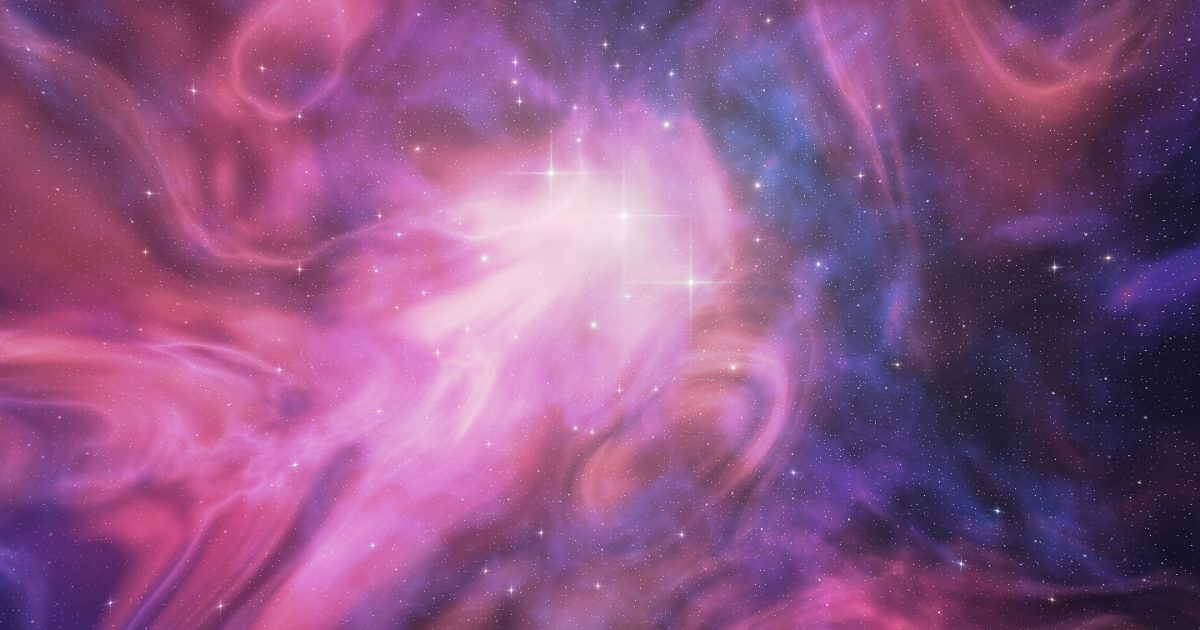
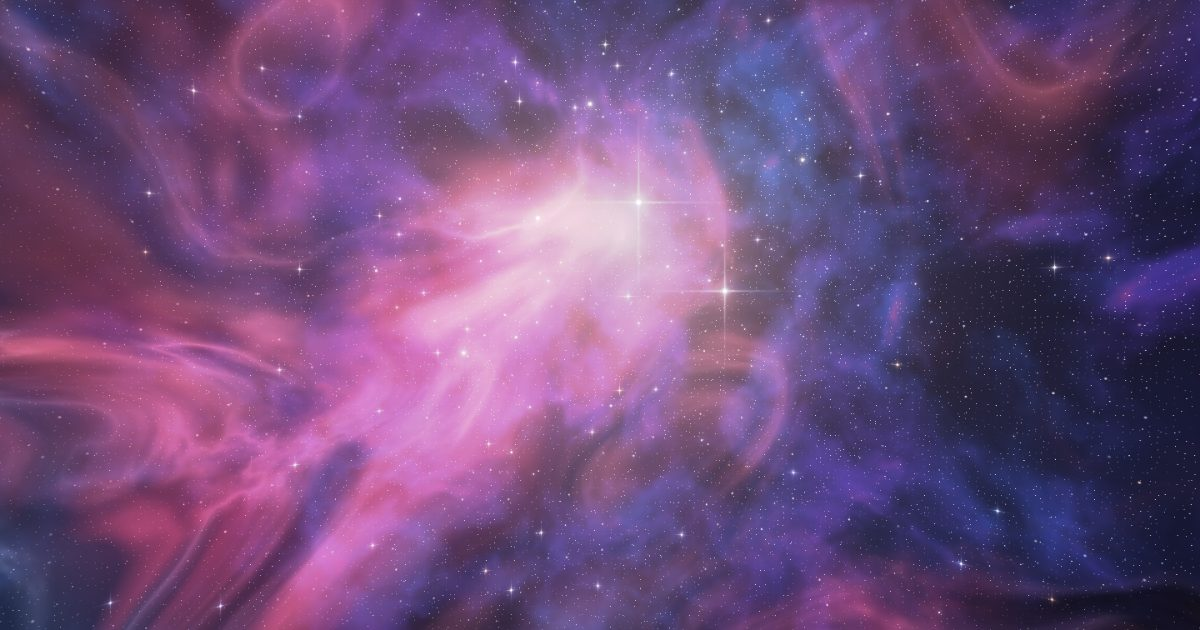
✨ feat: Add the owner's sound effects, polish the nebula and drop the Closer button
- Play the warp jump on Begin, the warp-out on every flight to or from a place, and a beep on clicks
- Give the nebula parallax layers, a natural young cluster and deeper colour and contrast
- Remove Closer so places are entered by clicking them and Further leads back out (D-114)

diff --git a/src/scene/scenes/nebula/shader.glsl.ts b/src/scene/scenes/nebula/shader.glsl.ts
@@ -20,22 +20,18 @@ void main(){ gl_Position = vec4(position.xy, 0.0, 1.0); }
 
 export const MAX_OCTAVES = 6;
 
-/** The cluster's stars, in units from the cluster's centre: x, y, size in CSS pixels, warmth. */
+/**
+ * The cluster's brightest stars, in units from the cluster's centre: x, y, size in CSS pixels,
+ * warmth. Few and irregular (S4, D-114); the many fainter ones are scattered by the shader,
+ * crowded at the heart and thinning outward, as a young cluster is.
+ */
 export const CLUSTER: readonly (readonly [number, number, number, number])[] = [
-  [0.0, 0.2, 2.6, 0.0],
-  [0.55, -0.35, 2.1, 0.1],
-  [-0.6, 0.55, 2.0, 0.0],
-  [0.35, 0.95, 1.7, 0.3],
-  [-0.25, -0.7, 1.6, 0.1],
-  [1.1, 0.45, 1.5, 0.6],
-  [-1.15, -0.15, 1.5, 0.2],
-  [0.9, -1.05, 1.3, 0.8],
-  [-0.9, 1.3, 1.2, 0.4],
-  [1.6, -0.2, 1.1, 0.0],
-  [-1.7, 0.75, 1.1, 0.7],
-  [0.15, 1.75, 1.0, 0.2],
-  [-0.4, -1.55, 1.0, 0.5],
-  [2.1, 1.1, 0.9, 0.9],
+  [0.12, 0.31, 2.7, 0.0],
+  [0.83, -0.42, 2.2, 0.15],
+  [-0.71, 0.18, 1.9, 0.05],
+  [-0.28, 1.12, 1.6, 0.4],
+  [1.47, 0.66, 1.4, 0.7],
+  [-1.32, -0.93, 1.3, 0.2],
 ];
 
 const vec4s = CLUSTER.map(([x, y, s, w]) => `vec4(${x.toFixed(2)}, ${y.toFixed(2)}, ${s.toFixed(2)}, ${w.toFixed(2)})`).join(",\n  ");
@@ -49,8 +45,9 @@ uniform vec2 uCentre;      // the cluster on screen, CSS pixels from the top lef
 uniform float uScale;      // CSS pixels per unit
 uniform float uTime;
 uniform int uOctaves;
-uniform float uNorm;
-uniform vec2 uSkyShift;   // the sky's share of a drag, CSS pixels: it moves less than the cloud       // 1 / the sum of the octaves' weights, so every tier is as bright
+uniform float uNorm;       // 1 / the sum of the octaves' weights, so every tier is as bright
+uniform vec2 uSkyShift;   // the sky's share of a drag, CSS pixels: it moves less than the cloud
+uniform vec2 uPan;        // the drag's pan, CSS pixels (S4: the far gas moves less, the near dust more)
 
 const float TAU = 6.28318530718;
 const float CAVITY = 4.6;            // the cavity's mean radius, units
@@ -135,7 +132,8 @@ void main(){
   float detail = fbm(r * 2.6 + 5.0);
   // the cloud's form: it fills the frame, thinning far from its glowing heart
   float body = smoothstep(30.0, 5.0, rad + (dens - 0.5) * 16.0);
-  float gas = smoothstep(0.36, 0.86, dens * 0.78 + detail * 0.36) * body;
+  // S4: a higher threshold, so the gas has dark gaps between its billows (contrast)
+  float gas = smoothstep(0.42, 0.9, dens * 0.78 + detail * 0.36) * body;
 
   // ---- light from the heart: the cloud's edges that face it glow (density falls toward it) ----
   vec2 toHeart = -p / max(rad, 0.001);
@@ -145,11 +143,13 @@ void main(){
 
   // ---- colour: deep blue and violet far off, magenta between, orange and gold near the heart ----
   float hue = broad(p * 0.045 + w1 * 0.9 + 30.0);
-  vec3 cool = mix(vec3(0.1, 0.2, 0.85), vec3(0.5, 0.18, 0.92), smoothstep(0.3, 0.7, hue));
-  vec3 warm = mix(vec3(0.98, 0.22, 0.55), vec3(1.0, 0.52, 0.16), smoothstep(0.35, 0.75, hue));
+  // S4: the far side teal and deep blue (the place's rose, teal and gold), violet between
+  vec3 cool = mix(vec3(0.04, 0.55, 0.72), vec3(0.12, 0.22, 0.85), smoothstep(0.42, 0.66, hue));
+  cool = mix(cool, vec3(0.48, 0.16, 0.9), smoothstep(0.66, 0.88, hue));
+  vec3 warm = mix(vec3(0.98, 0.2, 0.52), vec3(1.0, 0.55, 0.16), smoothstep(0.35, 0.75, hue));
   float heat = clamp(near * 1.9 + rim * 0.6 + (hue - 0.5) * 0.9, 0.0, 1.0);
   vec3 tint = mix(cool, warm, smoothstep(0.12, 0.7, heat));
-  vec3 light = tint * gas * (0.32 + 1.1 * near) * (0.55 + 0.9 * detail);
+  vec3 light = tint * gas * (0.2 + 1.2 * near) * (0.45 + 1.0 * detail);
   light += mix(warm, vec3(1.0, 0.86, 0.62), 0.45) * rim * (0.35 + 1.8 * near);
   // fine bright filaments threading the gas
   float thread = pow(1.0 - abs(2.0 * fbm(r * 3.4 + w2 * 2.0 + 17.0) - 1.0), 9.0) * gas;
@@ -158,11 +158,20 @@ void main(){
   light += vec3(1.0, 0.84, 0.64) * exp(-rad * 0.5) * 0.65;
   light += mix(vec3(0.45, 0.6, 1.0), vec3(1.0, 0.6, 0.85), 0.5) * exp(-rad * 0.2) * 0.2;
 
-  vec3 col = sky(css) * (1.0 - gas * 0.75) + light;
+  // ---- S4: a far layer of cool gas behind the cloud; it moves about half as much in a drag ----
+  vec2 pf = (q + uPan * 0.55) / (uScale * 1.25);
+  float farDens = broad(pf * 0.09 + vec2(t * 0.6, 40.0)) * 0.6 + broad(pf * 0.24 + 61.0) * 0.4;
+  float farGas = smoothstep(0.45, 0.85, farDens) * (1.0 - gas);
+  vec3 far = mix(vec3(0.06, 0.38, 0.62), vec3(0.32, 0.12, 0.7), broad(pf * 0.05 + 80.0)) * farGas * 0.42;
 
-  // ---- dust: soft dark drifts in front, never near the heart, never thin lines ----
-  float dust = smoothstep(0.56, 0.82, broad(p * 0.12 + w2 * 2.6 + 50.0)) * smoothstep(3.0, 10.0, rad);
-  col *= 1.0 - dust * 0.72;
+  vec3 col = sky(css) * (1.0 - gas * 0.8) * (1.0 - farGas * 0.4) + far + light;
+
+  // ---- dust: soft dark drifts in front, never near the heart, never thin lines; the nearest
+  // ones move more than the cloud in a drag (S4) ----
+  vec2 pn = (q - uPan * 0.35) / uScale;
+  float dust = smoothstep(0.52, 0.8, broad(p * 0.12 + w2 * 2.6 + 50.0)) * smoothstep(3.0, 10.0, rad);
+  float nearDust = smoothstep(0.6, 0.85, broad(pn * 0.08 + 90.0)) * smoothstep(5.0, 14.0, rad);
+  col *= (1.0 - dust * 0.8) * (1.0 - nearDust * 0.65);
 
   // ---- the stars the cloud is making: the bright cluster at the heart, and others scattered in it ----
   for (int i = 0; i < STARS; i++) {
@@ -174,6 +183,18 @@ void main(){
     float halo = size * size * 2.0 / (d * d + size * size * 2.5);
     float spikes = s.z > 1.9 ? (exp(-abs(o.y) * 1.2) * exp(-abs(o.x) / (size * 11.0)) + exp(-abs(o.x) * 1.2) * exp(-abs(o.y) / (size * 11.0))) * 0.55 : 0.0;
     col += mix(HOT, GOLD, s.w) * (core * 1.8 + halo * 0.6 + spikes);
+  }
+  // S4: the cluster's many fainter stars, crowded at the heart and thinning outward
+  vec2 cc = p * 2.2;
+  vec2 cid = floor(cc);
+  float crowd = 0.85 * exp(-dot(cid / 2.2, cid / 2.2) / 7.0) + 0.02;
+  float ch = hash21(cid + 131.0);
+  if (ch < crowd) {
+    vec2 at = (vec2(hash21(cid + 7.0), hash21(cid + 13.0)) - 0.5) * 0.7;
+    float d = length(fract(cc) - 0.5 - at) * uScale / 2.2;
+    float sz = mix(0.6, 1.5, pow(hash21(cid + 19.0), 3.0));
+    vec3 tone = mix(HOT, mix(WHITE, GOLD, 0.5), step(0.75, hash21(cid + 23.0)));
+    col += tone * (smoothstep(sz * 1.4, 0.0, d) * 1.4 + sz * sz / (d * d + sz * sz * 3.0) * 0.35);
   }
   vec2 cell = floor(p * 0.55);
   vec2 f = fract(p * 0.55) - 0.5;

diff --git a/src/lib/sound.ts b/src/lib/sound.ts
@@ -1,6 +1,8 @@
 /**
- * Sound (D-100): the owner's own music, "Magical Space", looped quietly under the scenes, and a
- * soft whoosh made in the browser for every flight (a dive, a pull-out, a glide between stops).
+ * Sound (D-100, D-114): the owner's own music, "Magical Space", looped quietly under the scenes;
+ * three effects the owner chose: a warp jump for Begin (`journey`), a warp-out for every flight
+ * into or out of a place (`travel`), a short beep for every click on a button or link (`click`);
+ * and a soft whoosh made in the browser for a glide between the galaxy and the web.
  *
  * Browsers only let a page make sound after the visitor does something, so the music starts on
  * the first click, tap or key press, and fades in. On the start page it waits for Begin instead
@@ -32,6 +34,15 @@ let master: GainNode | null = null;
 let music: HTMLAudioElement | null = null;
 let musicGain: GainNode | null = null;
 let noise: AudioBuffer | null = null;
+
+/** The owner's effects (D-114), decoded once the audio graph exists. */
+export type Sample = "journey" | "travel" | "click";
+const SAMPLES: Record<Sample, { url: string; gain: number; duck: number }> = {
+  journey: { url: "/sounds/tng_warp6_clean.mp3", gain: 0.6, duck: 0.45 },
+  travel: { url: "/sounds/tng_warp_out1.mp3", gain: 0.55, duck: 0.55 },
+  click: { url: "/sounds/padd_3.mp3", gain: 0.35, duck: 1 },
+};
+const decoded: Partial<Record<Sample, Promise<AudioBuffer | null>>> = {};
 
 function set(patch: Partial<SoundState>): void {
   state = { ...state, ...patch };
@@ -66,6 +77,14 @@ function graph(): AudioContext | null {
   musicGain = ctx.createGain();
   musicGain.gain.value = 0;
   ctx.createMediaElementSource(music).connect(musicGain).connect(master);
+
+  // the effects: fetched and decoded now, so they are ready by the time they are asked for
+  for (const name of Object.keys(SAMPLES) as Sample[]) {
+    decoded[name] = fetch(SAMPLES[name].url)
+      .then((response) => response.arrayBuffer())
+      .then((bytes) => ctx!.decodeAudioData(bytes))
+      .catch(() => null);
+  }
 
   // one second of white noise, the raw material of every whoosh
   noise = ctx.createBuffer(1, ctx.sampleRate, ctx.sampleRate);
@@ -147,6 +166,39 @@ export function toggleSound(): void {
 }
 
 /**
+ * One of the owner's effects (D-114). Called from a gesture, it may build the audio graph itself,
+ * so a click can sound before the music has started (the music still waits for Begin). If the
+ * effect is still loading it plays when ready, unless that is more than a moment late. The music
+ * dips under the longer ones.
+ */
+export function playSample(name: Sample): void {
+  if (!state.enabled || document.hidden) return;
+  const audio = graph();
+  if (!audio || !master) return;
+  if (audio.state === "suspended") void audio.resume();
+  const asked = performance.now();
+  void decoded[name]?.then((buffer) => {
+    if (!buffer || !ctx || !master || !state.enabled || performance.now() - asked > 1200) return;
+    const { gain, duck } = SAMPLES[name];
+    const source = ctx.createBufferSource();
+    source.buffer = buffer;
+    const level = ctx.createGain();
+    level.gain.value = gain;
+    source.connect(level).connect(master);
+    source.start();
+    if (duck < 1 && musicGain && state.playing) {
+      const now = ctx.currentTime;
+      const g = musicGain.gain;
+      g.cancelScheduledValues(now);
+      g.setValueAtTime(g.value, now);
+      g.linearRampToValueAtTime(MUSIC_VOLUME * duck, now + 0.4);
+      g.setValueAtTime(MUSIC_VOLUME * duck, now + buffer.duration * 0.7);
+      g.linearRampToValueAtTime(MUSIC_VOLUME, now + buffer.duration + 1.2);
+    }
+  });
+}
+
+/**
  * A breath of air for a flight (D-103): soft noise, filtered high and wide, swelling slowly and
  * fading slowly, its colour drifting up for a dive (`in`), down for a pull-out (`out`), barely at
  * all between stops (`glide`); over it a faint shimmer of two high, detuned tones. No low end and
@@ -219,6 +271,16 @@ if (typeof window !== "undefined") {
   };
   // pointerdown is permission only for a mouse; a touch gives it on pointerup and click
   for (const type of ["pointerdown", "pointerup", "click", "touchend", "keydown"]) window.addEventListener(type, onGesture, { capture: true, passive: true });
+  // every click on a button or a link beeps (D-114); a dimmed one does not
+  window.addEventListener(
+    "click",
+    (event) => {
+      const target = (event.target as Element | null)?.closest?.("button, a[href], [role='link'], [role='button']");
+      if (!target || target.getAttribute("aria-disabled") === "true") return;
+      playSample("click");
+    },
+    { capture: true, passive: true },
+  );
   document.addEventListener("visibilitychange", () => {
     if (document.hidden) {
       music?.pause();

diff --git a/src/scene/host/flow.ts b/src/scene/host/flow.ts
@@ -14,7 +14,7 @@
 
 import { useSyncExternalStore } from "react";
 import { animateSceneInput, getSceneState, setOpening, setSceneInput, subscribeScene, type SceneInput } from "./store";
-import { whoosh } from "@/lib/sound";
+import { playSample } from "@/lib/sound";
 import { sceneParams } from "./params";
 
 /**
@@ -98,7 +98,7 @@ export function flowBusy(): boolean {
  * Leaves for another scene's page. `opening` is the view the next scene starts on once motion
  * is allowed; `arrive` is the glide that then brings it to rest.
  */
-function leave(push: (href: string) => void, href: string, veil: string, out: { glide: Partial<Record<"dive" | "arrive", number>>; ms: number; veilAt: number; undo: Partial<Record<"dive" | "arrive", number>>; sound: "in" | "out" }, opening: Partial<SceneInput>, rest: Partial<SceneInput>, arrive: Partial<Record<"dive" | "arrive" | "zoom", number>>): void {
+function leave(push: (href: string) => void, href: string, veil: string, out: { glide: Partial<Record<"dive" | "arrive", number>>; ms: number; veilAt: number; undo: Partial<Record<"dive" | "arrive", number>> }, opening: Partial<SceneInput>, rest: Partial<SceneInput>, arrive: Partial<Record<"dive" | "arrive" | "zoom", number>>): void {
   if (flowBusy()) return;
   reset();
   leftToken = getSceneState().slot?.token ?? null;
@@ -112,7 +112,7 @@ function leave(push: (href: string) => void, href: string, veil: string, out: { 
     onArrive = then;
     push(href);
   };
-  whoosh(out.sound, calm() ? 0.9 : (out.ms + ARRIVE_MS * 0.5) / 1000);
+  playSample("travel"); // the owner's warp-out, into a place or back out of one (D-114)
   if (calm()) {
     set({ phase: "leaving", veil });
     later(CALM_MS, () => go({ ...opening, ...rest }, lift));
@@ -133,12 +133,12 @@ function leave(push: (href: string) => void, href: string, veil: string, out: { 
 export function diveInto(push: (href: string) => void, href: string, anchor: string, veil: string): void {
   if (flowBusy()) return;
   setSceneInput({ focus: anchor });
-  leave(push, href, veil, { glide: { dive: 1 }, ms: DIVE_MS, veilAt: VEIL_AT, undo: { dive: 0 }, sound: "in" }, { arrive: 0 }, { arrive: 1 }, { arrive: 1 });
+  leave(push, href, veil, { glide: { dive: 1 }, ms: DIVE_MS, veilAt: VEIL_AT, undo: { dive: 0 } }, { arrive: 0 }, { arrive: 1 }, { arrive: 1 });
 }
 
 /** From a place back out to the atlas, at the stop the place was found at. */
 export function pullOut(push: (href: string) => void, href: string, anchor: string, zoom: number, veil: string): void {
-  leave(push, href, veil, { glide: { arrive: 0 }, ms: SHRINK_MS, veilAt: SHRINK_VEIL_AT, undo: { arrive: 1 }, sound: "out" }, { zoom, focus: anchor, dive: 1 }, { dive: 0 }, { dive: 0 });
+  leave(push, href, veil, { glide: { arrive: 0 }, ms: SHRINK_MS, veilAt: SHRINK_VEIL_AT, undo: { arrive: 1 } }, { zoom, focus: anchor, dive: 1 }, { dive: 0 }, { dive: 0 });
 }
 
 /** The veil lifts; the flow is idle once it has faded. The next scene's opening has been used. */

diff --git a/src/components/screen/AtlasView.tsx b/src/components/screen/AtlasView.tsx
@@ -3,7 +3,7 @@
 import { useRouter } from "next/navigation";
 import { useEffect, useRef, useState } from "react";
 import { calm, diveInto, flowBusy, getFlow, useFlow } from "@/scene/host/flow";
-import { playMusic, whoosh } from "@/lib/sound";
+import { playMusic, playSample, whoosh } from "@/lib/sound";
 import { sceneParams } from "@/scene/host/params";
 import { SceneSlot } from "@/scene/host/SceneSlot";
 import {
@@ -96,19 +96,9 @@ export function AtlasView({ stops, spots }: { stops: readonly StopWords[]; spots
     sync();
   };
   /**
-   * The two buttons move between scenes only (D-112); the wheel and a pinch zoom freely. From the
-   * galaxy, Closer dives into the black hole at its heart and Further glides out to the web; from
-   * the web, Closer glides back in to the galaxy.
+   * One button (D-114): Further, the way back out, from the galaxy to the web. Places are entered
+   * by clicking them (and the galaxy, from the web, by clicking it); the wheel and a pinch zoom.
    */
-  const closer = () => {
-    if (flowBusy()) return;
-    if (getSceneInput().zoom > WEB_AT) {
-      glideTo(ZOOM_MIN);
-      return;
-    }
-    const heart = spots.find((entry) => entry.anchor === "core");
-    if (heart?.href) diveInto((href) => routerRef.current.push(href), heart.href, heart.anchor, heart.veil);
-  };
   const further = () => {
     if (getSceneInput().zoom <= WEB_AT) glideTo(ZOOM_MAX);
   };
@@ -148,7 +138,7 @@ export function AtlasView({ stops, spots }: { stops: readonly StopWords[]; spots
       leaving.current = setTimeout(() => setStartPhase("atlas"), live ? 260 : 0);
       return;
     }
-    whoosh("in", BEGIN_MS / 1000);
+    playSample("journey");
     animateSceneInput({ intro: 0 }, BEGIN_MS);
     leaving.current = setTimeout(() => setStartPhase("atlas"), BEGIN_MS * 0.8);
   };
@@ -168,7 +158,7 @@ export function AtlasView({ stops, spots }: { stops: readonly StopWords[]; spots
         setSceneInput({ intro: 1, zoom: ZOOM_MIN, yaw: 0, pitch: 0 });
         return;
       }
-      whoosh("out", BACK_MS / 1000);
+      playSample("travel");
       animateSceneInput({ intro: 1, zoom: ZOOM_MIN, yaw: 0, pitch: 0 }, BACK_MS);
     };
     const hash = () => {
@@ -322,10 +312,6 @@ export function AtlasView({ stops, spots }: { stops: readonly StopWords[]; spots
       <DragHint live={live} />
       {live ? (
         <div className={styles.controls}>
-          <button type="button" className={styles.control} onClick={closer}>
-            <i className={`${styles.icon} ${styles.closer}`} aria-hidden="true" />
-            <span>Closer</span>
-          </button>
           <button type="button" className={styles.control} onClick={() => !atWeb && further()} aria-disabled={atWeb}>
             <i className={`${styles.icon} ${styles.further}`} aria-hidden="true" />
             <span>Further</span>

diff --git a/src/scene/scenes/nebula/world.ts b/src/scene/scenes/nebula/world.ts
@@ -59,6 +59,7 @@ export class NebulaWorld {
         uTime: { value: 0 },
         uOctaves: { value: OCTAVES.medium },
         uSkyShift: { value: new Vector2(0, 0) },
+        uPan: { value: new Vector2(0, 0) },
         uSky: { value: sky },
         uNorm: { value: 1 },
       },
@@ -98,6 +99,7 @@ export class NebulaWorld {
     const panY = view.pitch * -PAN;
     u.uCentre.value.set(this.x + panX, this.y + panY);
     u.uSkyShift.value.set(panX * 0.3, panY * 0.3);
+    (u.uPan.value as Vector2).set(panX, -panY); // y up, as the shader's q
   }
 
   setTime(seconds: number): void {

diff --git a/src/components/screen/screen.module.css b/src/components/screen/screen.module.css
@@ -115,10 +115,6 @@
   transform: translate(-50%, -50%);
 }
 
-.closer::after {
-  transform: translate(-50%, -50%) rotate(90deg);
-}
-
 .further::after {
   display: none;
 }

diff --git a/docs/DECISIONS.md b/docs/DECISIONS.md
@@ -203,3 +203,4 @@ The owner clicked through S1: "Much better", then asked for the changes below, w
 | D-111 | **S2: the galaxy and the web, fuller (laptop first).** The disc's colour runs white-gold, gold and amber far out, then rose, violet, azure and teal (the warm part wider and amber, not ember, so the middle reads gold instead of salmon). New layers, each on its own random stream so the approved instance does not move: thin flocculent filaments at the arms' pitch across the whole disc (`high` 60k points); young clumps on all four arms, pink and blue-white, each with a soft glow; violet, azure and rose clouds along the arms' leading edges; fine dark lanes on every arm and dark streaks between them; a wide warm heart. The interarm stars lean violet outside the heart. Close in, the disc's light is turned down (to 70% at stop 0) so the arms do not burn white. **The web:** a bright strand of gas down every thread, a hot light at every knot, stronger glow, a richer sky behind. **The dive:** near stars are capped in size and sharpened (brighter for it), so the flight is a dense field of stars rushing in, not soft blots; glow sprites the camera is inside fade. A `?dive=&focus=` still switch for screenshots of the flight. Posters re-rendered. Budgets held: 29 draw calls at most (start page still), the atlas chunk 14.7 KB gzip. | The roadmap's S2 and the owner's "fill it", "it feels empty", with the references (`reference images/`, the galaxy one in particular). | A post-processing bloom pass (a new dependency and a heavier frame on the laptop GPU); a texture-painted disc (the content model forbids downloaded imagery in scenes). |
 | D-112 | **Owner's round after S2.** (1) **A first-load screen:** the emblem turning in a glow and the spaced wordmark cover the first page until the fonts and the scene have settled (at most 6 s), then fade once; clicks pass through, `<noscript>` hides it, `?shot=1` skips it. (2) **A black hole at the galaxy's heart**, larger than life so it reads at this scale: a dark shadow, a bright photon ring, a hot accretion disc turning around it with faint banding, three streams of gas spiralling in to feed it, and dust around the nucleus so it stands out from the bulge (the bulge and core glow dimmed to match). To keep the draw calls, the S2 heart rides in the core's layer and the fine dust in the dust layer. (3) **Every scene opens all the way in** (the atlas close to the disc, a place as large as it gets); the wheel and a pinch zoom freely. (4) **The two buttons move between scenes only:** on the galaxy, Closer dives into the black hole at its heart and Further glides out to the web; on the web, Closer glides back in and Further is spent; a place has only Further, which leaves at once. Coming back from a place lands close in (the web for the quasar). (5) **Names in Title Case** ("A Spiral Galaxy", "Black Hole"). | The owner: "the site literally changes looks slightly after a few milliseconds on first load"; "the center of the galaxy needs something there to better indicate there is a black hole … stuff feeding into it"; "the most zoomed in version of scenes looks best … set that as default and let people zoom out or in using scrollwheel, and the two buttons should be to transition scenes only"; "use title case for the object names". | A loader on every navigation (the veil already covers those); a true-scale nucleus (invisible at galaxy scale). |
 | D-113 | **Drag the right way; a bright heart; S3.** (1) On the black hole and the quasar, dragging down now tips the top toward you (the tilt was inverted), clamped short of the pole; the nebula's pan is unchanged. (2) **The galaxy's heart is a blaze of light, not a dark spot:** the shadow sprite and the nucleus dust are gone (one draw call fewer); a white-hot core of light, a hot disc turning around it and five streams of light spiralling in, brightest where they meet. (3) **S3:** a crisp photon ring on both scenes, at the critical impact parameter (3√3/2 horizon radii), a pixel or two wide at any size; stronger Doppler brightening (the approaching side blazes); a fourth, finer layer of lensed stars; on the quasar, the core's glare and the host galaxy's light tighten as the visitor moves in (the default is all the way in since D-112, and it was a milky haze), knots of light riding slowly out along the jets, a host galaxy with blue arms, pink knots and a dust lane, and the jets' base flare made symmetric (it drew a seam across the shadow). | The owner: "the drag and rotate is inverted"; "look at galaxy images, do you see a black spot in the middle, no, you see a large influx of light"; "move onto S3". The roadmap's S3 list. | A dark nucleus (owner rejected it); a spinning (Kerr) hole (the illustration stays simple). |
+| D-114 | **One button, the owner's sounds, S4.** (1) **No Closer anywhere:** places are entered by clicking them (the galaxy too, from the web); Further is the way back out (on the galaxy it glides to the web). (2) **The owner's three effects** (`public/sounds/`): `tng_warp6_clean.mp3` for Begin (the journey in), `tng_warp_out1.mp3` for every flight into or out of a place and for Home flying back, `padd_3.mp3` for every click on a button or link (a dimmed one stays silent). They are decoded into the Web Audio graph on the first gesture; a click can sound before the music, which still waits for Begin; the music dips under the long ones. Glides between the galaxy and the web keep the browser-made whoosh. The files appear to be Star Trek: The Next Generation effects: fine for the owner's own use, a licensing risk if the site is deployed publicly (flagged to the owner). (3) **S4, the nebula:** depth from parallax (a far layer of cool gas moves about half as much in a drag, near dust drifts more), the young cluster natural (six irregular bright stars and many faint ones scattered by the shader, crowded at the heart and thinning outward, instead of a tidy pattern), deeper colour and contrast (a higher gas threshold so the billows have dark gaps between them, teal and deep blue on the far side, stronger dust). | The owner: "get rid of closer button since they should navigate to place by clicking on them while the return button helps them to return"; "look at the 3 sound files I gave, one is for first enter journeys, next is for the moving to places, and the other is for ui clicks"; "you can move onto S4". The roadmap's S4 list. | Keeping the browser-made whooshes for flights into places (the owner chose the files). |

diff --git a/docs/PHASE_CHECKLIST.md b/docs/PHASE_CHECKLIST.md
@@ -34,7 +34,9 @@ The owner approved the start page and asked for S2, and said phones no longer ma
 
 - [x] First-load screen; black hole at the galaxy's heart; scenes open all the way in; buttons move between scenes only; Title Case names. Checked: check, build, posters, shots 33, a11y 8, fallbacks (see the commit), and a Playwright run: Closer on the galaxy lands on `/black-hole`, a place has only Further, no loader without JavaScript.
 
-### S3 done (2026-11-21, D-113). Next: S4, the nebula (ask the owner first; they may want to review S3)
+### S4 done (2026-11-21, D-114), with the owner's sounds and Closer removed. Next: S5, the owner's review, then deploy only when they say (and decide about the Star Trek sound files first)
+
+### S3 done (2026-11-21, D-113)
 
 ### Owner's backlog (to do, not yet scheduled)
 
@@ -208,5 +210,5 @@ Fable's part ends here (D-028). Everything below is built by Opus.
   - [x] Owner looked: "It's a good start, definitely needs some polish." What to polish: ask next session (S1e).
 - [x] S2 Galaxy and cosmic web (2026-11-21, D-111): gold-to-azure disc, filaments, pink and blue clumps, clouds, fine dust, warm heart; glowing web strands and knots; a finer dive; posters re-rendered. Checked: check, build, posters, shots 33, fallbacks 41 (29 draw calls max), a11y 8; atlas chunk 14.7 KB gzip.
 - [x] S3 Black hole and quasar (2026-11-21, D-113): crisp photon ring, stronger Doppler, finer lensed stars, quasar glare and host tighten close in, jet knots, a host galaxy with arms and a dust lane. Also: drag tilt fixed, galaxy heart a blaze of light.
-- [ ] S4 Nebula.
+- [x] S4 Nebula (2026-11-21, D-114): parallax layers, a natural young cluster, deeper colour and contrast.
 - [ ] S5 Owner review, then deploy.

diff --git a/docs/DESIGN_SPEC.md b/docs/DESIGN_SPEC.md
@@ -98,7 +98,7 @@ Every scene shows a grab cursor (a closed hand while dragging). Until the visito
 
 - Three stops of one scene: **2** the cosmic web, **1** the whole galaxy, centred, **0** close in over the disc.
 - Lower left: the stop's name and its line, changing softly as the stop changes.
-- Lower right (a phone: lower left, under the words): **Closer** and **Further**, a plus and a minus in a circle with the word. They move between scenes only (D-112): on the galaxy, Closer dives into the black hole at its heart and Further glides out to the web; on the web, Closer glides back in and Further is dimmed (`aria-disabled`). The atlas opens close in; the wheel and a pinch zoom freely.
+- Lower right (a phone: lower left, under the words): **Further**, a minus in a circle with the word: the way back out (D-114). On the galaxy it glides out to the web; on the web it is dimmed (`aria-disabled`). Places, and the galaxy from the web, are entered by clicking them. The atlas opens close in; the wheel and a pinch zoom freely.
 - Hotspots: at stops 0 and 1, **Black hole** (the core) and **Nebula** (in an arm); at stop 2, **Quasar** (a far, bright galaxy) and **The galaxy** (ours, which glides back in).
 - Drag turns the galaxy (and tilts it, with a mouse); the wheel and a pinch zoom.
 - Keys: + and − zoom, the arrows turn and tilt, Escape goes one stop further out.

diff --git a/CLAUDE.md b/CLAUDE.md
@@ -25,7 +25,7 @@ The palette, type and galaxy come from `prototype/look.html`; its ink and vessel
 - **Budgets** in `docs/ARCHITECTURE.md` section 3 are limits, not targets to revisit.
 - **Science:** every line is true. No fact, number or name from memory: fetch the source, name it in `content/places.ts`, record the checked date. `npm run check` enforces it.
 - **Imagery:** our own illustrations only. Never embed or host telescope photos or third-party art. The owner's `reference images/` are inspiration, kept out of git.
-- **Sound:** the owner's own music and whooshes made in the browser; nothing before the first gesture; the Sound button always works (D-100).
+- **Sound:** the owner's own music, the effects the owner supplied in `public/sounds/` (D-114), and whooshes made in the browser; nothing before the first gesture; the Sound button always works (D-100).
 - **Scope:** the v1 table in the blueprint; the beauty sessions (S2 to S4) before new places. One roadmap session at a time, then stop.
 
 ## Working rules
